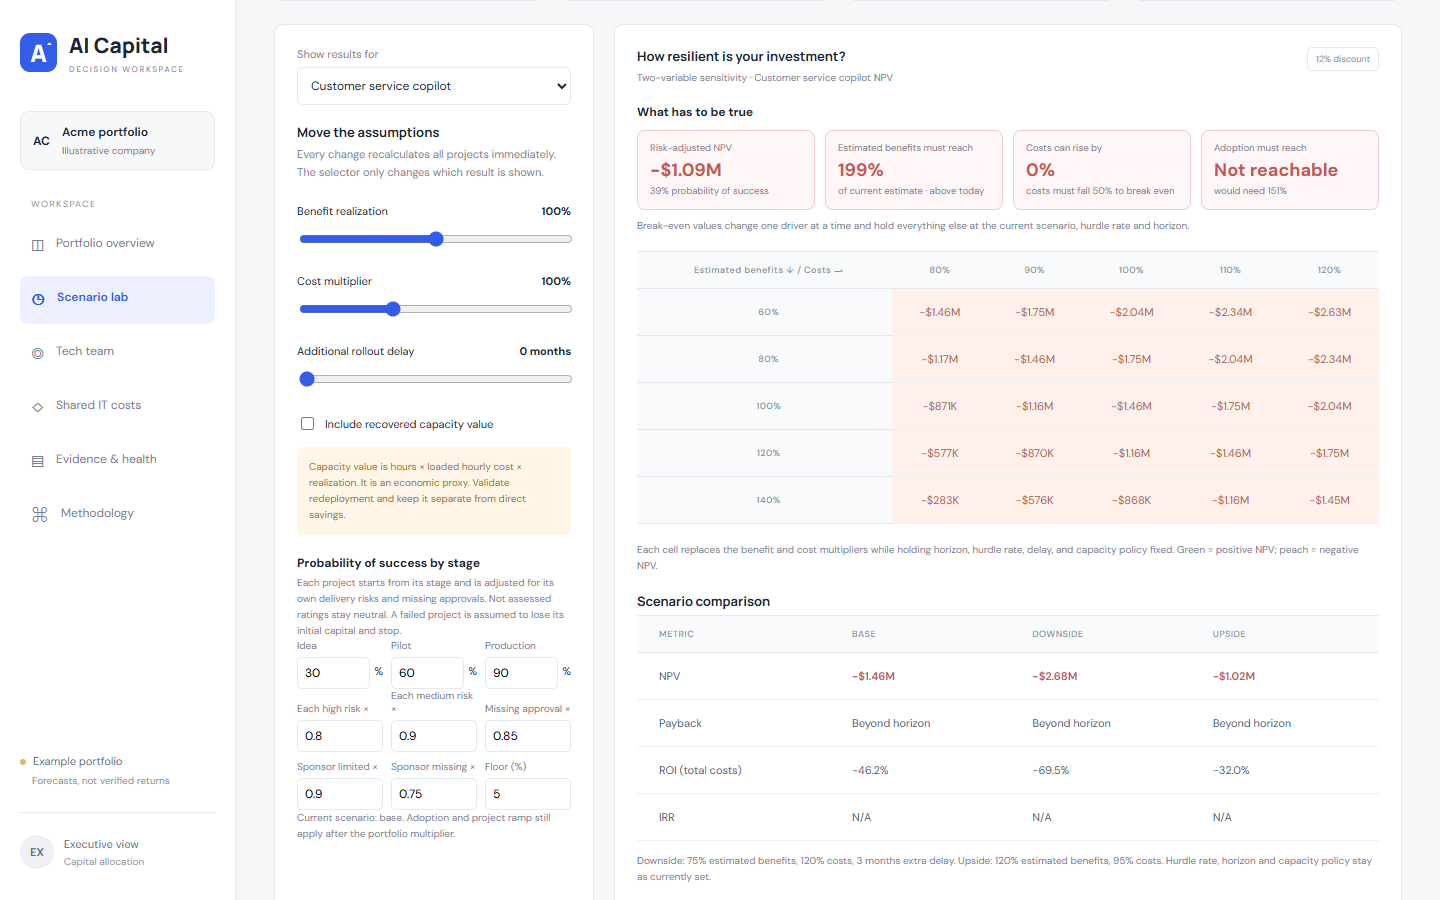
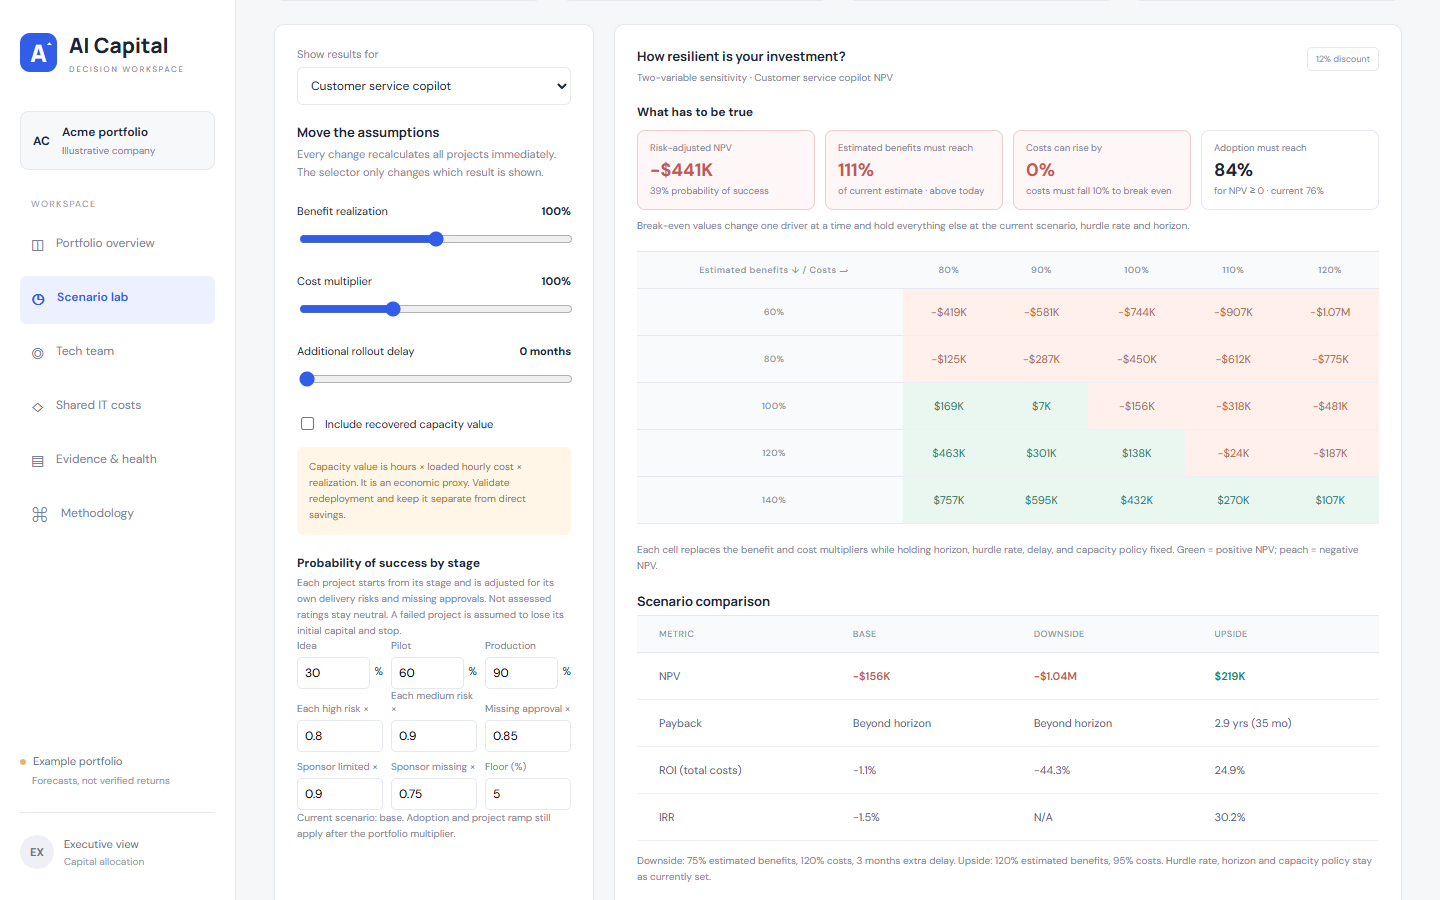
Recalibrate the demo portfolio to realistic internal costs
The example portfolio showed NPV -$4.17M because internal team and
shared IT assumptions were layered on projects sized for external costs.
Project costs and benefits from the reference are unchanged; only the
illustrative internal assumptions move:

- Internal build teams of 2-4 people alongside the paid implementation
  (the implementation budgets already cover the vendor build)
- Run support 0.25 FTE (0.5 for Vision in production); the projects'
  own maintenance and oversight fields cover most ongoing support
- Shared IT is this portfolio's share of company platforms ($160K/yr)
- Predictive maintenance stays one ML engineer short to show the
  staffing trade-off, with ML engineers free on the bench

Result: portfolio NPV +$0.50M, payback 3.5 years, IRR 17%, with a clear
winner, a smaller win, a marginal case and two flagged pilots.
Risk-adjusted subtitle is green only when risk-adjusted NPV is positive.
Tests derive expectations from settings; docs and screenshots updated.

diff --git a/dist/model.js b/dist/model.js
@@ -17,14 +17,15 @@ export const defaults = {
   sponsorMissing: 0.75,
   // Shared internal tech team. Loaded annual cost per person; headcount totals 25.
   teamCost: true,
-  // Shared IT costs: annual cost per category, split across projects by the category's basis.
+  // Shared IT costs: this portfolio's annual share of company platforms per category, split across
+  // projects by the category's basis.
   sharedCost: true,
   shared: [
-    { id: 'ai', name: 'AI platform & model APIs', cost: 180000, driver: 'compute' },
-    { id: 'dataplat', name: 'Data platform', cost: 150000, driver: 'data' },
-    { id: 'mlops', name: 'MLOps & monitoring', cost: 90000, driver: 'live' },
-    { id: 'security', name: 'Security & compliance tooling', cost: 70000, driver: 'sensitivity' },
-    { id: 'tools', name: 'Licences & developer tools', cost: 60000, driver: 'people' },
+    { id: 'ai', name: 'AI platform & model APIs', cost: 55000, driver: 'compute' },
+    { id: 'dataplat', name: 'Data platform', cost: 45000, driver: 'data' },
+    { id: 'mlops', name: 'MLOps & monitoring', cost: 25000, driver: 'live' },
+    { id: 'security', name: 'Security & compliance tooling', cost: 20000, driver: 'sensitivity' },
+    { id: 'tools', name: 'Licences & developer tools', cost: 15000, driver: 'people' },
   ],
   team: [
     { id: 'ml', name: 'ML engineers', headcount: 8, cost: 180000 },
@@ -108,7 +109,7 @@ export const examples = [
     modelRiskReview: 'Approved',
     need: { ml: 1, data: 0, sw: 0, ops: 1 },
     alloc: { ml: 1, data: 0, sw: 0, ops: 1 },
-    runNeed: 1.5,
+    runNeed: 0.5,
     evidence:
       'Q3 2025 pilot baseline; sample scenario from reference. Validate full rollout and labor savings before approval.',
   },
@@ -163,9 +164,9 @@ export const examples = [
     securityReview: 'Approved',
     legalReview: 'Approved',
     modelRiskReview: 'In progress',
-    need: { ml: 2, data: 1, sw: 2, ops: 1 },
-    alloc: { ml: 2, data: 1, sw: 2, ops: 1 },
-    runNeed: 1.5,
+    need: { ml: 1, data: 0, sw: 1, ops: 1 },
+    alloc: { ml: 1, data: 0, sw: 1, ops: 1 },
+    runNeed: 0.25,
     evidence:
       'Illustrative example; handle time and satisfaction metrics inspired by the reference. Annual savings need a staffing or avoided hiring plan.',
   },
@@ -222,7 +223,7 @@ export const examples = [
     modelRiskReview: 'Approved',
     need: { ml: 1, data: 0, sw: 1, ops: 0 },
     alloc: { ml: 1, data: 0, sw: 1, ops: 0 },
-    runNeed: 1,
+    runNeed: 0.25,
     evidence:
       'Illustrative finance example. Direct savings represent outsourced processing and late fees; hours recovered are a separate internal team benefit.',
   },
@@ -277,9 +278,9 @@ export const examples = [
     securityReview: 'Approved',
     legalReview: 'In progress',
     modelRiskReview: 'In progress',
-    need: { ml: 2, data: 2, sw: 1, ops: 1 },
-    alloc: { ml: 2, data: 2, sw: 1, ops: 1 },
-    runNeed: 1,
+    need: { ml: 1, data: 1, sw: 0, ops: 1 },
+    alloc: { ml: 1, data: 1, sw: 0, ops: 1 },
+    runNeed: 0.25,
     evidence:
       'Reference identifies no formal prelaunch accuracy baseline. The 61% is a provisional historical proxy; reconcile comparable SKUs, seasonality, and data feed gaps.',
   },
@@ -334,9 +335,9 @@ export const examples = [
     securityReview: 'In progress',
     legalReview: 'Not started',
     modelRiskReview: 'Not started',
-    need: { ml: 2, data: 2, sw: 1, ops: 1 },
-    alloc: { ml: 1, data: 2, sw: 1, ops: 1 },
-    runNeed: 1,
+    need: { ml: 2, data: 1, sw: 1, ops: 1 },
+    alloc: { ml: 1, data: 1, sw: 1, ops: 1 },
+    runNeed: 0.25,
     evidence:
       'Reference: 0 failures in 6 months versus historical 4/year. This does not establish an annual zero-failure rate; validate seasonality and avoided-event attribution.',
   },

diff --git a/dist/app.js b/dist/app.js
@@ -55,7 +55,7 @@ function metrics(a = portfolio(), label = 'Portfolio') {
       )
       .join('')}</div>`;
   const roi = a.cost ? (a.benefit - a.cost) / a.cost : null;
-  return `<div class="metrics"><div class="metric"><div class="metric-top">${label} NPV <span class="metric-icon">↗</span></div><strong>${short(a.npv)}</strong><small class="${a.npv > 0 ? 'green' : ''}">Risk-adjusted ${short(a.rnpv)} · ${state.settings.years} yrs at ${state.settings.rate}%</small></div><div class="metric"><div class="metric-top">${label} payback <span class="metric-icon">◷</span></div><strong>${a.payback === null ? '—' : a.payback < 24 ? a.payback.toFixed(1) + ' mo' : (a.payback / 12).toFixed(1) + ' yrs'}</strong><small>${a.payback === null ? 'Not reached in selected horizon' : (a.payback < 24 ? '' : Math.round(a.payback) + ' months · ') + 'Undiscounted monthly cash flows'}</small></div><div class="metric"><div class="metric-top">${label} ROI <span class="metric-icon">⌁</span></div><strong>${pct(roi)}</strong><small>Total cost basis · ${state.settings.years}-year horizon</small></div><div class="metric"><div class="metric-top">Initial capital <span class="metric-icon">▣</span></div><strong>${short(a.cap)}</strong><small>Year-1 funding ${short(a.funding)} incl. running costs</small></div></div>`;
+  return `<div class="metrics"><div class="metric"><div class="metric-top">${label} NPV <span class="metric-icon">↗</span></div><strong>${short(a.npv)}</strong><small class="${a.rnpv > 0 ? 'green' : ''}">Risk-adjusted ${short(a.rnpv)} · ${state.settings.years} yrs at ${state.settings.rate}%</small></div><div class="metric"><div class="metric-top">${label} payback <span class="metric-icon">◷</span></div><strong>${a.payback === null ? '—' : a.payback < 24 ? a.payback.toFixed(1) + ' mo' : (a.payback / 12).toFixed(1) + ' yrs'}</strong><small>${a.payback === null ? 'Not reached in selected horizon' : (a.payback < 24 ? '' : Math.round(a.payback) + ' months · ') + 'Undiscounted monthly cash flows'}</small></div><div class="metric"><div class="metric-top">${label} ROI <span class="metric-icon">⌁</span></div><strong>${pct(roi)}</strong><small>Total cost basis · ${state.settings.years}-year horizon</small></div><div class="metric"><div class="metric-top">Initial capital <span class="metric-icon">▣</span></div><strong>${short(a.cap)}</strong><small>Year-1 funding ${short(a.funding)} incl. running costs</small></div></div>`;
 }
 function cashChart() {
   const a = portfolio();

diff --git a/docs/METRICS.md b/docs/METRICS.md
@@ -63,7 +63,7 @@ Vision QC, demand forecasting and predictive maintenance draw names and selected
 - **Coverage** = assigned ÷ needed for the weakest role. Time to full benefit (project delay + ramp) × 1 ÷ coverage when short; × max(0.5, 1 ÷ √coverage) when every role is over-staffed; never when a needed role has nobody. Scenario delay is not scaled.
 - **Team cost** is charged monthly as a fixed running cost: the whole assigned team until full ramp, then assigned cost × min(1, run FTE ÷ assigned). It flows into NPV, payback, Year-1 funding, break-even and unit economics, and can be switched off (staffing delays still apply). Example cost fields are treated as external and vendor costs to avoid double counting internal people.
 - The Tech team page reconciles year-1 cost: charged to projects + bench + idle after build = annual cost of the whole team. Health adds a team staffing signal (build coverage, or run coverage once in production; < 50% red, < 100% yellow).
-- Default example allocation leaves 4 people on the bench and Predictive maintenance one ML engineer short, to illustrate the trade-off. Including team cost lowers every example NPV; Customer service and Invoice processing turn negative.
+- Demo calibration (illustrative, not reference data): the examples' implementation budgets already pay for the vendor build, so each has a small internal team (2–4 people) and 0.25 FTE run support (0.5 for Vision, in production), because their own maintenance and oversight fields cover most ongoing support. 14 of the 25 people are assigned; the rest work on other initiatives and are not charged to these projects. Predictive maintenance is one ML engineer short, with ML engineers on the bench, to illustrate the staffing trade-off. Project costs and benefits are unchanged from the reference.
 
 ## Linked indicators
 
@@ -80,7 +80,7 @@ Vision QC, demand forecasting and predictive maintenance draw names and selected
 
 ## Shared IT costs
 
-- Categories (default: AI platform & model APIs $180K, data platform $150K, MLOps & monitoring $90K, security & compliance tooling $70K, licences & developer tools $60K per year; illustrative) each carry an annual cost and an allocation basis.
+- Categories (default: AI platform & model APIs $55K, data platform $45K, MLOps & monitoring $25K, security & compliance tooling $20K, licences & developer tools $15K per year; illustrative) each carry an annual cost and an allocation basis. The defaults are this portfolio's share of company-wide platforms, not the whole platform bill.
 - Bases use inputs only, so allocation never depends on its own results: compute spend (fixed compute + unit cost × volume × adoption), data engineers assigned, tech team assigned, live projects (pilot or production), data sensitivity (Personal 3, Confidential 2, Internal 1, Public 0), or equal.
 - Project share = category cost × project basis ÷ sum of all projects' bases, over all projects including excluded ones; department share = sum of its projects' shares. A category with zero basis everywhere stays unallocated.
 - The share is a fixed monthly running cost from month 1, scaled by the cost multiplier and switchable. Portfolio totals include only included projects' shares; excluded and unallocated amounts are reported on the Shared IT costs page so each category is counted once.

diff --git a/README.md b/README.md
@@ -76,7 +76,7 @@ Skipped detail is never guessed: unrated risks stay neutral and are flagged, mis
 
 ![Evidence and health](docs/screenshots/evidence.png)
 
-Screenshots show the illustrative example portfolio with internal team cost and shared IT costs included, which is why several projects and the portfolio are negative. Both charges can be switched off (Tech team and Shared IT costs pages) to see the external-cost-only view.
+Screenshots show the illustrative example portfolio, fully loaded with internal team and shared IT costs: a clear winner (Vision quality control), a smaller win (Invoice processing), a marginal case to rework (Customer service), and two pilots the tool flags for intervention. Both internal charges can be switched off (Tech team and Shared IT costs pages) to compare with the external-cost-only view.
 
 ## Export to Excel
 
